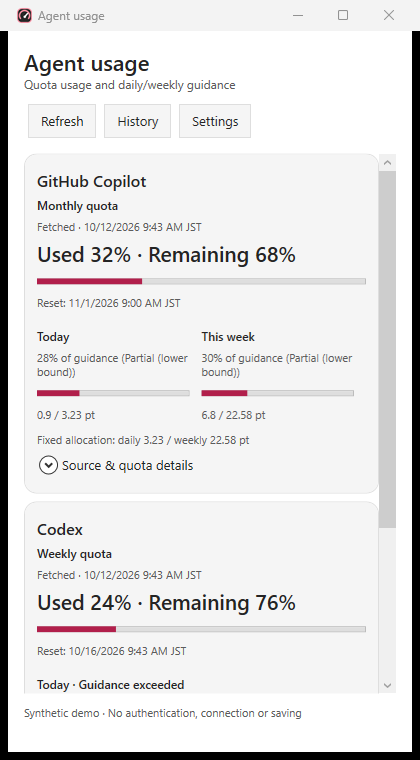
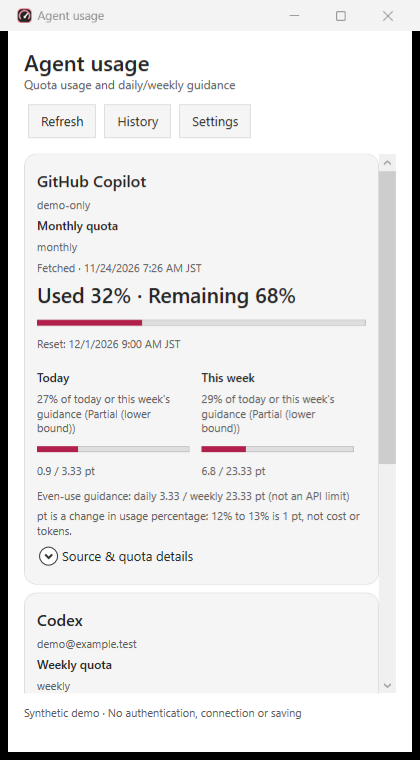
fix(demo): show sample usage and group guidance amounts
The demo view drew empty cards because it had no enabled account profiles. Guidance and Number() values use digit grouping. Add a read-only storage measuring script and regenerate the README demo images.

diff --git a/src/AiUsageTray.Desktop/DemoView.cs b/src/AiUsageTray.Desktop/DemoView.cs
@@ -10,10 +10,10 @@ public static class DemoView
     {
         var now = DateTimeOffset.UtcNow;
         var monthEnd = new DateTimeOffset(now.Year, now.Month, 1, 0, 0, 0, TimeSpan.Zero).AddMonths(1);
-        var copilot = new QuotaSnapshot(new(AccountKey.FromIdentity(Provider.Copilot, "demo-only"), "月枠"),
+        var copilot = new QuotaSnapshot(new(AccountKey.FromIdentity(Provider.Copilot, "demo-only"), "monthly"),
             "サンプル", UsageSource.CopilotHttp, now, UsageUnit.PercentagePoints, 32, 100, 32, false,
             new(WindowKind.Monthly, monthEnd.AddMonths(-1), monthEnd));
-        var codex = new QuotaSnapshot(new(AccountKey.FromIdentity(Provider.Codex, "demo-only"), "週枠"),
+        var codex = new QuotaSnapshot(new(AccountKey.FromIdentity(Provider.Codex, "demo-only"), "weekly"),
             "サンプル", UsageSource.CodexHttp, now, UsageUnit.PercentagePoints, 24, 100, 24, false,
             new(WindowKind.Weekly, now.AddDays(-3), now.AddDays(4)));
         var state = new UsageState { Latest = [copilot, codex] };
@@ -24,7 +24,14 @@ public static class DemoView
             var week = Budgets.Summarize(state, snapshot, true) with { Measured = 6.8m, Coverage = Coverage.Partial };
             views.Add(new(snapshot.Key, day, week));
         }
+        // Synthetic enabled profiles so the overview draws the sample snapshots; they hold no credentials or real identities.
         return new(state, new DesktopSettings { Theme = light ? "Light" : "Dark", CodexHome = @"C:\Example\.codex",
+            ExtraAccounts =
+            [
+                new AccountProfile { Id = "demo-copilot", Provider = Provider.Copilot, Enabled = true, Login = "demo-only" },
+                new AccountProfile { Id = "demo-codex", Provider = Provider.Codex, Enabled = true,
+                    Email = "demo@example.test", Home = @"C:\Example\.codex" }
+            ],
             ClaudeMode = ConnectionMode.Attempted, ConnectionResults = new()
             { [Provider.Claude] = new(Provider.Claude, Diagnostics.DiscoveryStatus.LoginRequired, "claude_login_required") } },
             new(), null, views, false);

diff --git a/tests/AiUsageTray.Tests/Program.cs b/tests/AiUsageTray.Tests/Program.cs
@@ -713,6 +713,14 @@ Test("public demo contains synthetic accounts and no saved credentials", () =>
     True(!view.Settings.CopilotEnabled && !view.Settings.CodexEnabled && !view.Settings.ClaudeEnabled);
     Equal("", view.Settings.GithubLogin);
     Equal("", view.Settings.CodexEmail);
+    // The overview filters by enabled accounts: without synthetic profiles the demo drew "not fetched" cards.
+    foreach (var provider in new[] { Provider.Copilot, Provider.Codex })
+    {
+        var accounts = view.Settings.Accounts().Where(a => a.Profile.Provider == provider &&
+            a.Profile.Enabled && a.Preference.Visible).ToArray();
+        Equal(1, AccountOverview.Snapshots(accounts,
+            view.State.Latest.Where(s => s.Key.Account.Provider == provider), false).Count);
+    }
 });
 
 HistoryTests.Add(tests);

diff --git a/tests/AiUsageTray.Tests/LocalizationTests.cs b/tests/AiUsageTray.Tests/LocalizationTests.cs
@@ -63,6 +63,11 @@ static class LocalizationTests
             Equal("chat", ja.Bucket(new(claude, "chat")));
             Equal("unknown_bucket", en.Bucket(new(copilot, "unknown_bucket")));
             Equal("0.000000001", en.Number(0.000000001m, 2));
+            Equal("1,166.67", en.Number(1166.666m, 2));
+            Equal("1,166.7", ja.Number(1166.666m, 1));
+            Equal("0.5", en.Number(0.5m, 1));
+            True(en.Format(UiText.FixedAllocation, 1166.67m, 8166.69m, "credits").Contains("1,166.67") &&
+                en.Format(UiText.FixedAllocation, 1166.67m, 8166.69m, "credits").Contains("8,166.69"));
             Equal("121,006", en.Amount(121006m));
             Equal("1,234.5", en.Amount(1234.5m));
             Equal("0.000000001", en.Amount(0.000000001m));

diff --git a/src/AiUsageTray.Core/Localization.cs b/src/AiUsageTray.Core/Localization.cs
@@ -121,8 +121,8 @@ public sealed class UiLocalizer
     public string Number(decimal? value, int decimalPlaces) =>
         value is not { } number ? "—"
         : number != 0 && decimal.Round(number, decimalPlaces) == 0
-            ? number.ToString("0.############################", Culture)
-            : number.ToString(decimalPlaces == 2 ? "0.##" : "0.#", Culture);
+            ? Amount(number)
+            : number.ToString(decimalPlaces == 2 ? "#,0.##" : "#,0.#", Culture);
 
     // Axis labels keep at least three significant digits; "G3" would switch to exponent notation from 1000 upward,
     // so it is kept only for values too small to print compactly.

diff --git a/docs/history-storage.md b/docs/history-storage.md
@@ -151,3 +151,4 @@ file表示はExplorerの`/select,`を使用します。任意path/URL/credential
 - 5分ごとの取得で、枠（アカウント×枠）ごとに観測差分を1件追加します。変化がなくても「消費0」の差分として残り、月次アーカイブの検証が済むまで消せません（唯一のrawを捨てない設計）。複数アカウント・上限なし枠を使う環境では枠が増えるため、増え方が速くなります。ある実環境では`state.json`が約28MB、差分約6万件のうち約94%が消費0でした。
 - 0.2.12で`state.json`の書き込みをインデントなしにし、1回の書き込みにまとめました（同じ実データで約28MBが約20MB）。`StateStore.JsonOptions`は履歴レコードIDの計算に使うため変更しません（固定IDのテストで保護）。
 - 未対応の設計案: 連続する消費0の差分を1区間にまとめると、差分数は桁違いに減ります。ただし履歴レコードID、アーカイブ照合、重複区間の検査と整合させるデータ構造の変更なので、明示的な承認後に別変更で行います。取得のたびに全体を保存する頻度の見直しも同様に別途検討します。
+- 増え方は `scripts/measure-history-growth.ps1`（読み取り専用）で確認できます。保存済みの差分数、消費0の割合、サービス・枠ごとの容量を表示し、アカウントIDは表示しません。0.2.17時点の実環境では、`state.json`が約25MB（差分約7.7万件）で、Copilotのチャットとコード補完の枠は消費0が100%でした。この2枠だけで日別履歴の容量の約6割を占めます。
